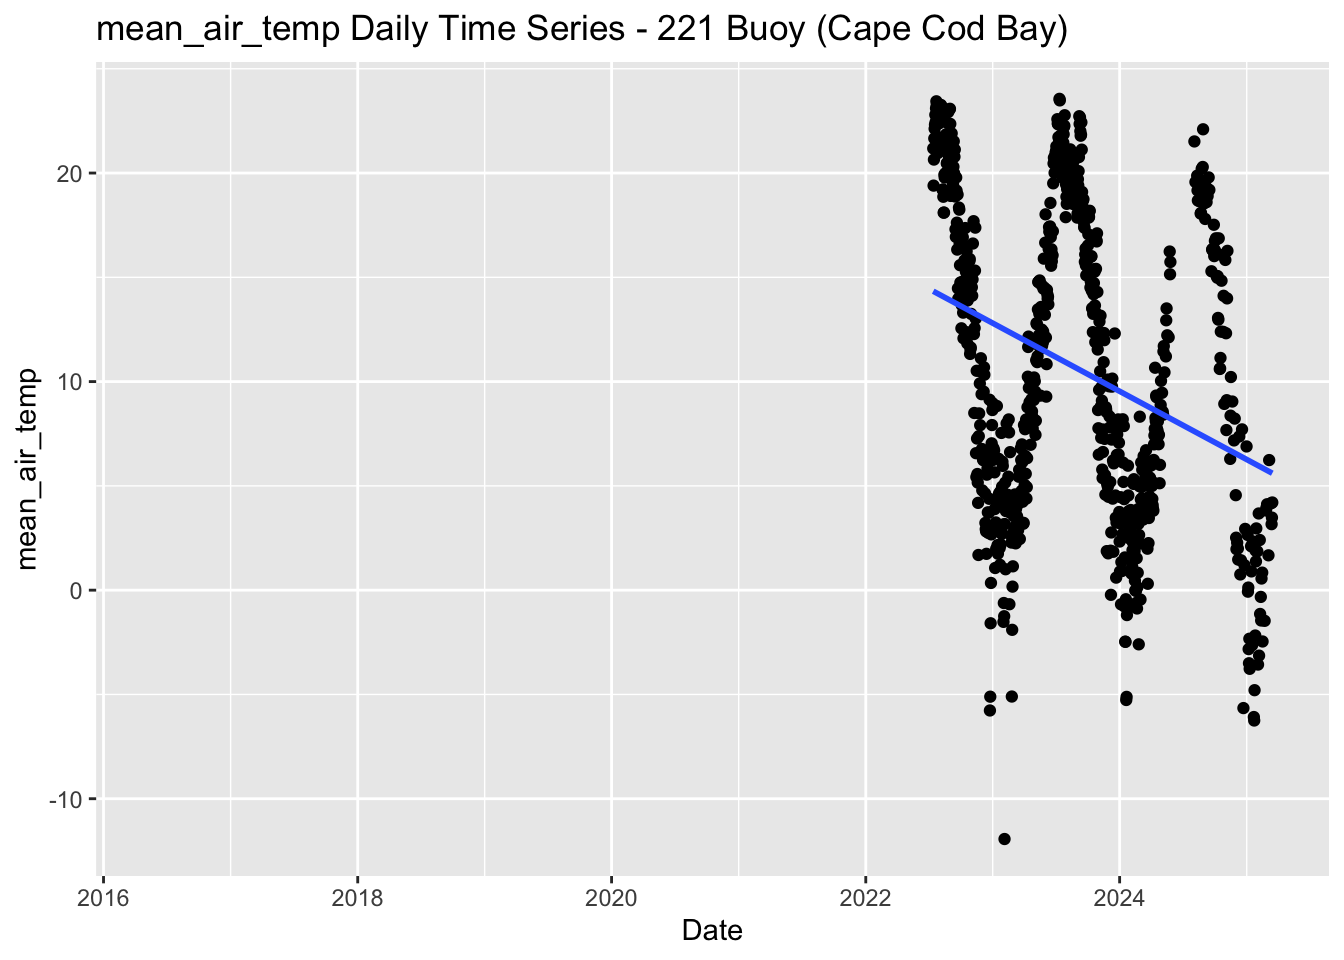
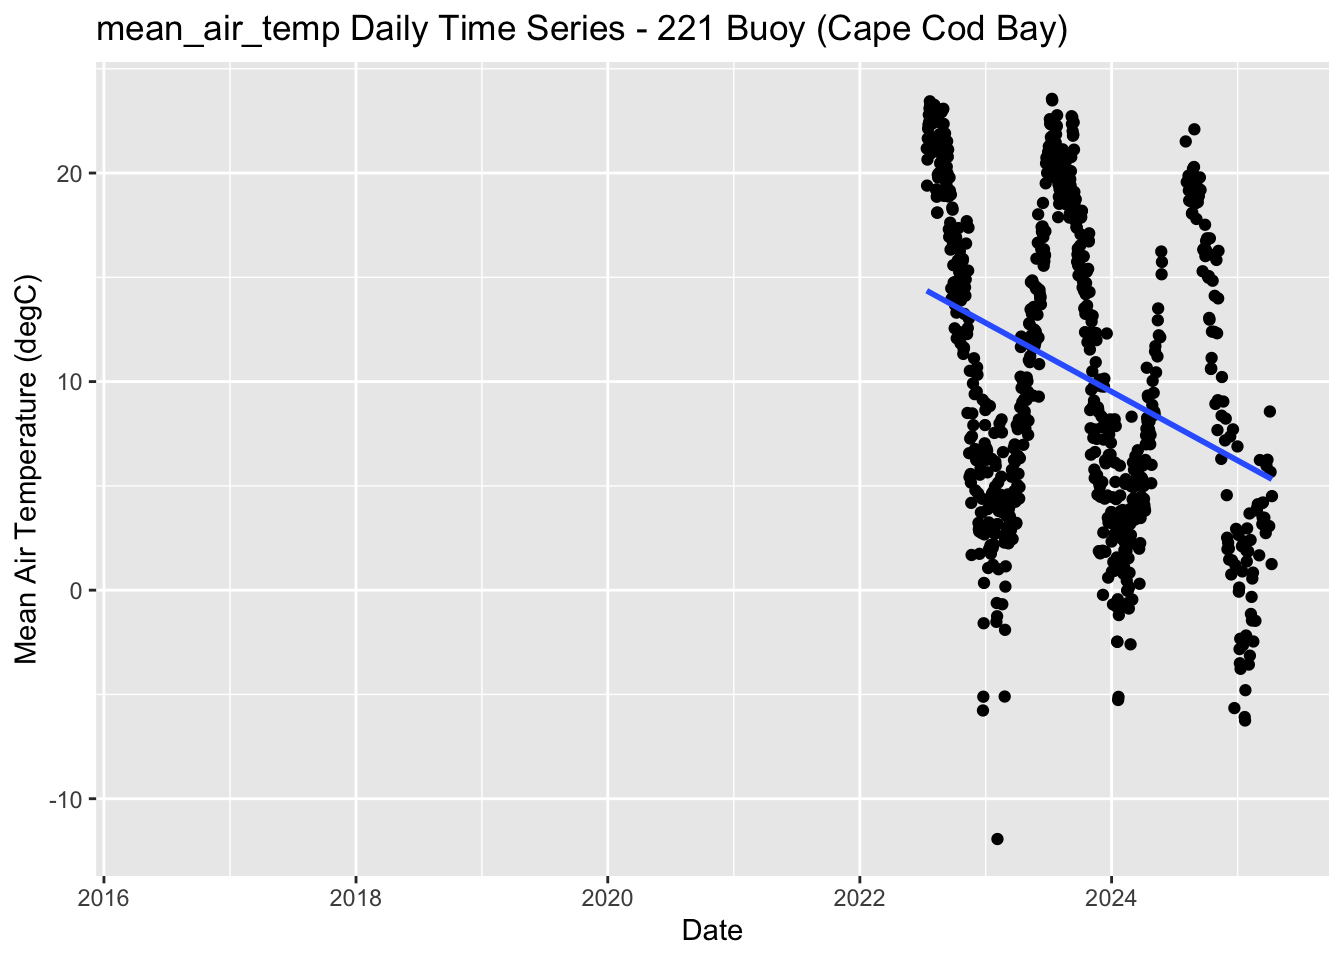
Update plot axes units and labels

diff --git a/quarto_docs/buoy_221_ERDDAP.html b/quarto_docs/buoy_221_ERDDAP.html
@@ -363,21 +363,36 @@ pre > code.sourceCode > span > a:first-child::before { text-decoration: underlin
 <span id="cb17-5"><a href="#cb17-5" aria-hidden="true" tabindex="-1"></a>                                             <span class="sc">%in%</span> <span class="fu">c</span>(<span class="st">"date"</span>, <span class="st">"mean_acm_direction"</span>)]</span>
 <span id="cb17-6"><a href="#cb17-6" aria-hidden="true" tabindex="-1"></a>angular_variable_means <span class="ot">&lt;-</span> <span class="fu">c</span>(<span class="st">"mean_acm_direction"</span>)</span>
 <span id="cb17-7"><a href="#cb17-7" aria-hidden="true" tabindex="-1"></a>variable_means <span class="ot">&lt;-</span> <span class="fu">c</span>(scalar_variable_means, angular_variable_means)</span>
-<span id="cb17-8"><a href="#cb17-8" aria-hidden="true" tabindex="-1"></a></span>
-<span id="cb17-9"><a href="#cb17-9" aria-hidden="true" tabindex="-1"></a></span>
-<span id="cb17-10"><a href="#cb17-10" aria-hidden="true" tabindex="-1"></a><span class="cf">for</span> (var <span class="cf">in</span> variable_means) {</span>
-<span id="cb17-11"><a href="#cb17-11" aria-hidden="true" tabindex="-1"></a>  p <span class="ot">&lt;-</span> <span class="fu">ggplot</span>(buoy_221_daily,</span>
-<span id="cb17-12"><a href="#cb17-12" aria-hidden="true" tabindex="-1"></a>              <span class="fu">aes</span>(<span class="at">x =</span> date,</span>
-<span id="cb17-13"><a href="#cb17-13" aria-hidden="true" tabindex="-1"></a>                  <span class="at">y =</span> .data[[var]])) <span class="sc">+</span></span>
-<span id="cb17-14"><a href="#cb17-14" aria-hidden="true" tabindex="-1"></a>    <span class="fu">geom_point</span>() <span class="sc">+</span></span>
-<span id="cb17-15"><a href="#cb17-15" aria-hidden="true" tabindex="-1"></a>    <span class="fu">geom_smooth</span>(<span class="at">method =</span> <span class="st">"lm"</span>, <span class="at">se =</span> <span class="cn">FALSE</span>) <span class="sc">+</span></span>
-<span id="cb17-16"><a href="#cb17-16" aria-hidden="true" tabindex="-1"></a>    <span class="fu">labs</span>(<span class="at">x =</span> <span class="st">"Date"</span>,</span>
-<span id="cb17-17"><a href="#cb17-17" aria-hidden="true" tabindex="-1"></a>         <span class="at">y =</span> var,</span>
-<span id="cb17-18"><a href="#cb17-18" aria-hidden="true" tabindex="-1"></a>         <span class="at">title =</span> <span class="fu">paste</span>(var, <span class="st">"Daily Time Series - 221 Buoy (Cape Cod Bay)"</span>)) <span class="sc">+</span></span>
-<span id="cb17-19"><a href="#cb17-19" aria-hidden="true" tabindex="-1"></a>    <span class="fu">scale_color_brewer</span>(<span class="at">palette =</span> <span class="st">"Set2"</span>)</span>
-<span id="cb17-20"><a href="#cb17-20" aria-hidden="true" tabindex="-1"></a>  </span>
-<span id="cb17-21"><a href="#cb17-21" aria-hidden="true" tabindex="-1"></a>  <span class="fu">print</span>(p)</span>
-<span id="cb17-22"><a href="#cb17-22" aria-hidden="true" tabindex="-1"></a>}</span></code><button title="Copy to Clipboard" class="code-copy-button"><i class="bi"></i></button></pre></div>
+<span id="cb17-8"><a href="#cb17-8" aria-hidden="true" tabindex="-1"></a>variable_means_meta <span class="ot">&lt;-</span> <span class="fu">list</span>(</span>
+<span id="cb17-9"><a href="#cb17-9" aria-hidden="true" tabindex="-1"></a>  <span class="at">mean_air_temp =</span> <span class="st">"Mean Air Temperature (degC)"</span>,</span>
+<span id="cb17-10"><a href="#cb17-10" aria-hidden="true" tabindex="-1"></a>  <span class="at">max_air_temp =</span> <span class="st">"Max Air Temperature (degC)"</span>,</span>
+<span id="cb17-11"><a href="#cb17-11" aria-hidden="true" tabindex="-1"></a>  <span class="at">mean_sst =</span> <span class="st">"Mean SST (degC)"</span>,</span>
+<span id="cb17-12"><a href="#cb17-12" aria-hidden="true" tabindex="-1"></a>  <span class="at">max_sst =</span> <span class="st">"Max SST (deg C)"</span>,</span>
+<span id="cb17-13"><a href="#cb17-13" aria-hidden="true" tabindex="-1"></a>  <span class="at">mean_acm_speed =</span> <span class="st">"Mean Current Speed 0.75m depth (m/s)"</span>,</span>
+<span id="cb17-14"><a href="#cb17-14" aria-hidden="true" tabindex="-1"></a>  <span class="at">max_acm_speed =</span> <span class="st">"Max Current Speed 0.75m depth (m/s)"</span>,</span>
+<span id="cb17-15"><a href="#cb17-15" aria-hidden="true" tabindex="-1"></a>  <span class="at">mean_acm_vertical_speed =</span> <span class="st">"Mean Vertical Current Speed 0.75m depth (m/s)"</span>,</span>
+<span id="cb17-16"><a href="#cb17-16" aria-hidden="true" tabindex="-1"></a>  <span class="at">mean_wave_hs =</span> <span class="st">"Mean Wave Significant Height (m)"</span>,</span>
+<span id="cb17-17"><a href="#cb17-17" aria-hidden="true" tabindex="-1"></a>  <span class="at">mean_wave_tp =</span> <span class="st">"Mean Wave Period (s)</span></span>
+<span id="cb17-18"><a href="#cb17-18" aria-hidden="true" tabindex="-1"></a><span class="st">            (variance spectral density max)"</span>,</span>
+<span id="cb17-19"><a href="#cb17-19" aria-hidden="true" tabindex="-1"></a>  <span class="at">mean_wave_Ta =</span> <span class="st">"Mean Wave Period (s)</span></span>
+<span id="cb17-20"><a href="#cb17-20" aria-hidden="true" tabindex="-1"></a><span class="st">    (variance spectral density first frequency moment)"</span>,</span>
+<span id="cb17-21"><a href="#cb17-21" aria-hidden="true" tabindex="-1"></a>  <span class="at">mean_acm_direction =</span> <span class="st">"Current Direction 0.75m depth (degT)"</span></span>
+<span id="cb17-22"><a href="#cb17-22" aria-hidden="true" tabindex="-1"></a>)</span>
+<span id="cb17-23"><a href="#cb17-23" aria-hidden="true" tabindex="-1"></a></span>
+<span id="cb17-24"><a href="#cb17-24" aria-hidden="true" tabindex="-1"></a></span>
+<span id="cb17-25"><a href="#cb17-25" aria-hidden="true" tabindex="-1"></a><span class="cf">for</span> (var <span class="cf">in</span> variable_means) {</span>
+<span id="cb17-26"><a href="#cb17-26" aria-hidden="true" tabindex="-1"></a>  p <span class="ot">&lt;-</span> <span class="fu">ggplot</span>(buoy_221_daily,</span>
+<span id="cb17-27"><a href="#cb17-27" aria-hidden="true" tabindex="-1"></a>              <span class="fu">aes</span>(<span class="at">x =</span> date,</span>
+<span id="cb17-28"><a href="#cb17-28" aria-hidden="true" tabindex="-1"></a>                  <span class="at">y =</span> .data[[var]])) <span class="sc">+</span></span>
+<span id="cb17-29"><a href="#cb17-29" aria-hidden="true" tabindex="-1"></a>    <span class="fu">geom_point</span>() <span class="sc">+</span></span>
+<span id="cb17-30"><a href="#cb17-30" aria-hidden="true" tabindex="-1"></a>    <span class="fu">geom_smooth</span>(<span class="at">method =</span> <span class="st">"lm"</span>, <span class="at">se =</span> <span class="cn">FALSE</span>) <span class="sc">+</span></span>
+<span id="cb17-31"><a href="#cb17-31" aria-hidden="true" tabindex="-1"></a>    <span class="fu">labs</span>(<span class="at">x =</span> <span class="st">"Date"</span>,</span>
+<span id="cb17-32"><a href="#cb17-32" aria-hidden="true" tabindex="-1"></a>         <span class="at">y =</span> variable_means_meta[[var]],</span>
+<span id="cb17-33"><a href="#cb17-33" aria-hidden="true" tabindex="-1"></a>         <span class="at">title =</span> <span class="fu">paste</span>(var, <span class="st">"Daily Time Series - 221 Buoy (Cape Cod Bay)"</span>)) <span class="sc">+</span></span>
+<span id="cb17-34"><a href="#cb17-34" aria-hidden="true" tabindex="-1"></a>    <span class="fu">scale_color_brewer</span>(<span class="at">palette =</span> <span class="st">"Set2"</span>)</span>
+<span id="cb17-35"><a href="#cb17-35" aria-hidden="true" tabindex="-1"></a>  </span>
+<span id="cb17-36"><a href="#cb17-36" aria-hidden="true" tabindex="-1"></a>  <span class="fu">print</span>(p)</span>
+<span id="cb17-37"><a href="#cb17-37" aria-hidden="true" tabindex="-1"></a>}</span></code><button title="Copy to Clipboard" class="code-copy-button"><i class="bi"></i></button></pre></div>
 <div class="cell-output-display">
 <div>
 <figure class="figure">
@@ -491,7 +506,7 @@ pre > code.sourceCode > span > a:first-child::before { text-decoration: underlin
 <span id="cb18-34"><a href="#cb18-34" aria-hidden="true" tabindex="-1"></a>    <span class="fu">geom_point</span>(<span class="at">size =</span> <span class="dv">3</span>) <span class="sc">+</span></span>
 <span id="cb18-35"><a href="#cb18-35" aria-hidden="true" tabindex="-1"></a>    <span class="fu">geom_smooth</span>(<span class="at">method =</span> <span class="st">"lm"</span>, <span class="at">se =</span> <span class="cn">FALSE</span>) <span class="sc">+</span></span>
 <span id="cb18-36"><a href="#cb18-36" aria-hidden="true" tabindex="-1"></a>    <span class="fu">labs</span>(<span class="at">x =</span> <span class="st">"Date"</span>,</span>
-<span id="cb18-37"><a href="#cb18-37" aria-hidden="true" tabindex="-1"></a>         <span class="at">y =</span> var,</span>
+<span id="cb18-37"><a href="#cb18-37" aria-hidden="true" tabindex="-1"></a>         <span class="at">y =</span> variable_means_meta[[var]],</span>
 <span id="cb18-38"><a href="#cb18-38" aria-hidden="true" tabindex="-1"></a>         <span class="at">title =</span> <span class="fu">paste</span>(var, <span class="st">"Annual Time Series - 221 Buoy (Cape Cod Bay)"</span>)) <span class="sc">+</span></span>
 <span id="cb18-39"><a href="#cb18-39" aria-hidden="true" tabindex="-1"></a>    <span class="fu">scale_color_brewer</span>(<span class="at">palette =</span> <span class="st">"Set2"</span>)</span>
 <span id="cb18-40"><a href="#cb18-40" aria-hidden="true" tabindex="-1"></a>  </span>
